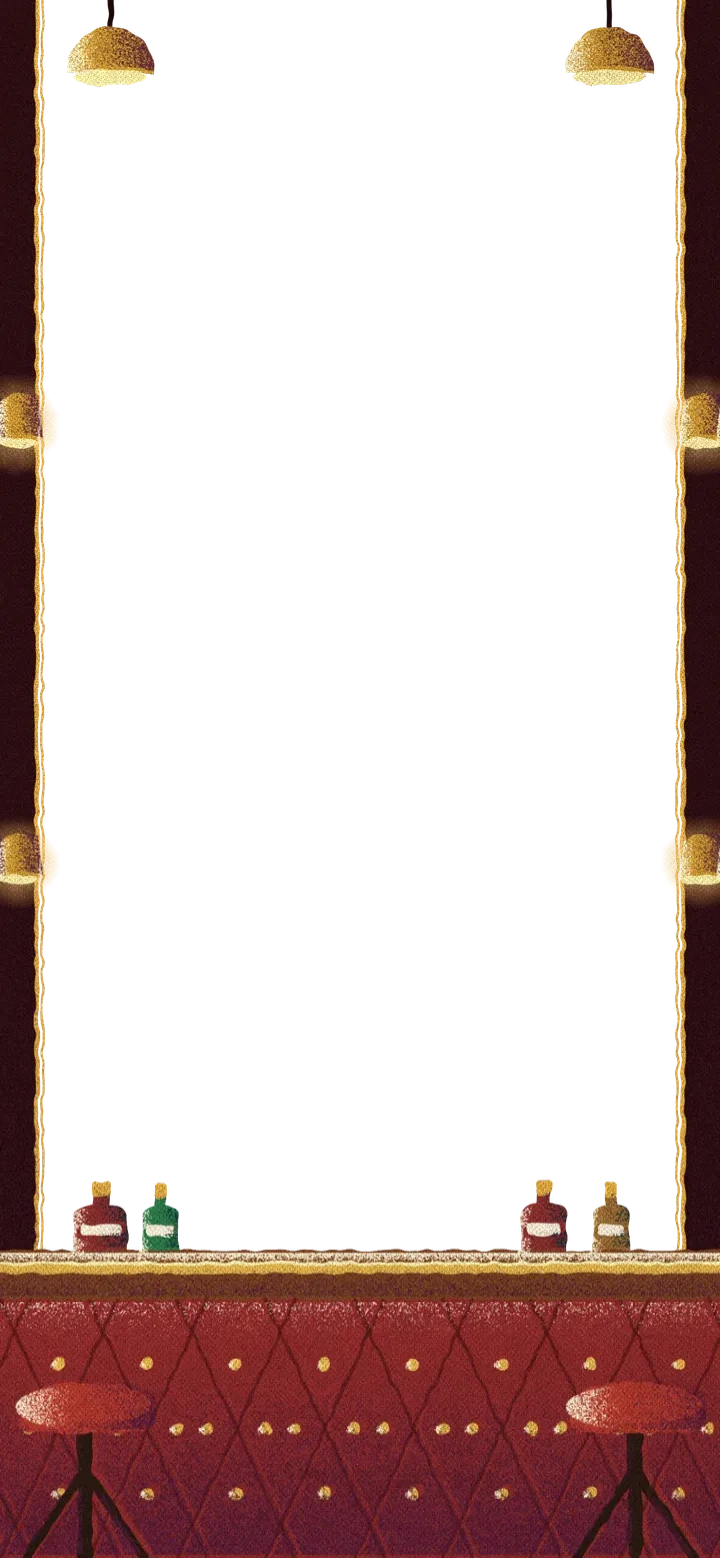
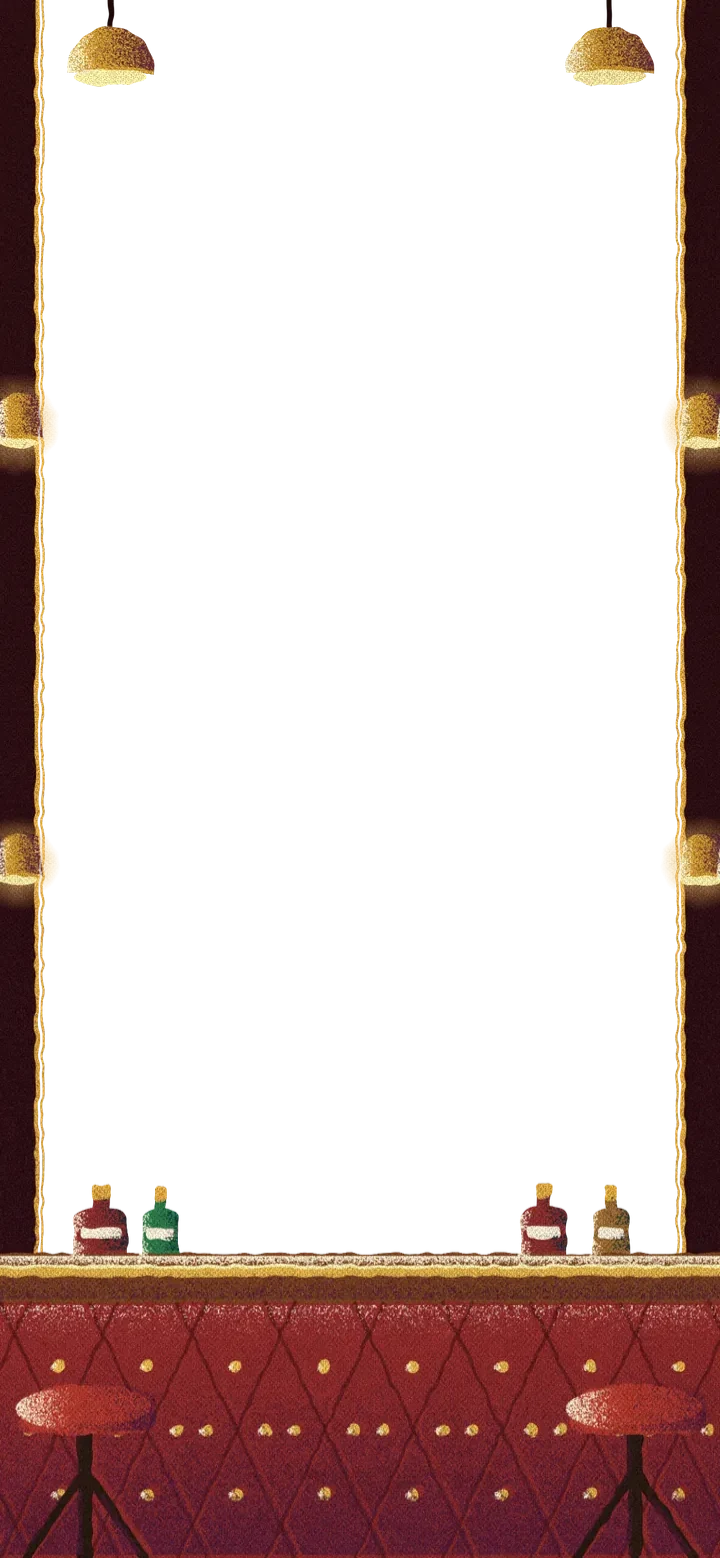
Mi bar y Clásico a la altura del marco del Tiki
Claude-Session: https://claude.ai/code/session_01EMXnAxq4LMvieSwDYu5mi1

diff --git a/sw.js b/sw.js
@@ -1,4 +1,4 @@
-const C='tragos-v25';
+const C='tragos-v26';
 const FILES=['./','./index.html','./manifest.webmanifest','./icon-192.png','./icon-512.png','./icon-180.png','./assets/Ruina.ttf',
  ...['mi','tiki','clasico'].flatMap(b=>[0,1,2,3].map(f=>`./assets/marco/${b}_${f}.webp`)),
  ...['old-fashioned','mai-tai','pina-colada','painkiller','jungle-bird','daiquiri','negroni','margarita','martini','manhattan','mojito','aperol-spritz','whiskey-sour','espresso-martini','fernet-coca','cynar-pomelo','gancia-sprite'].map(d=>`./assets/drinks/${d}.webp`)];
